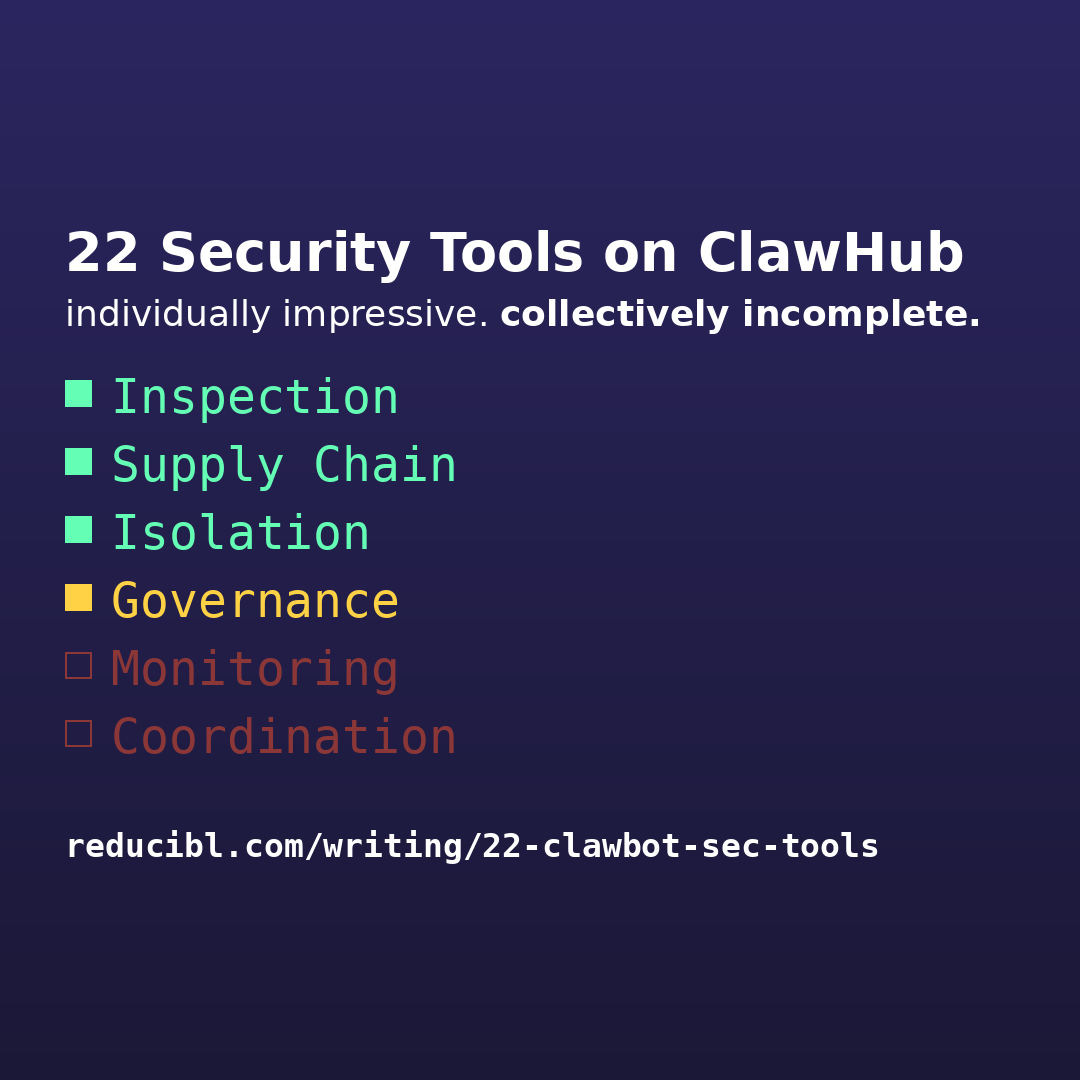
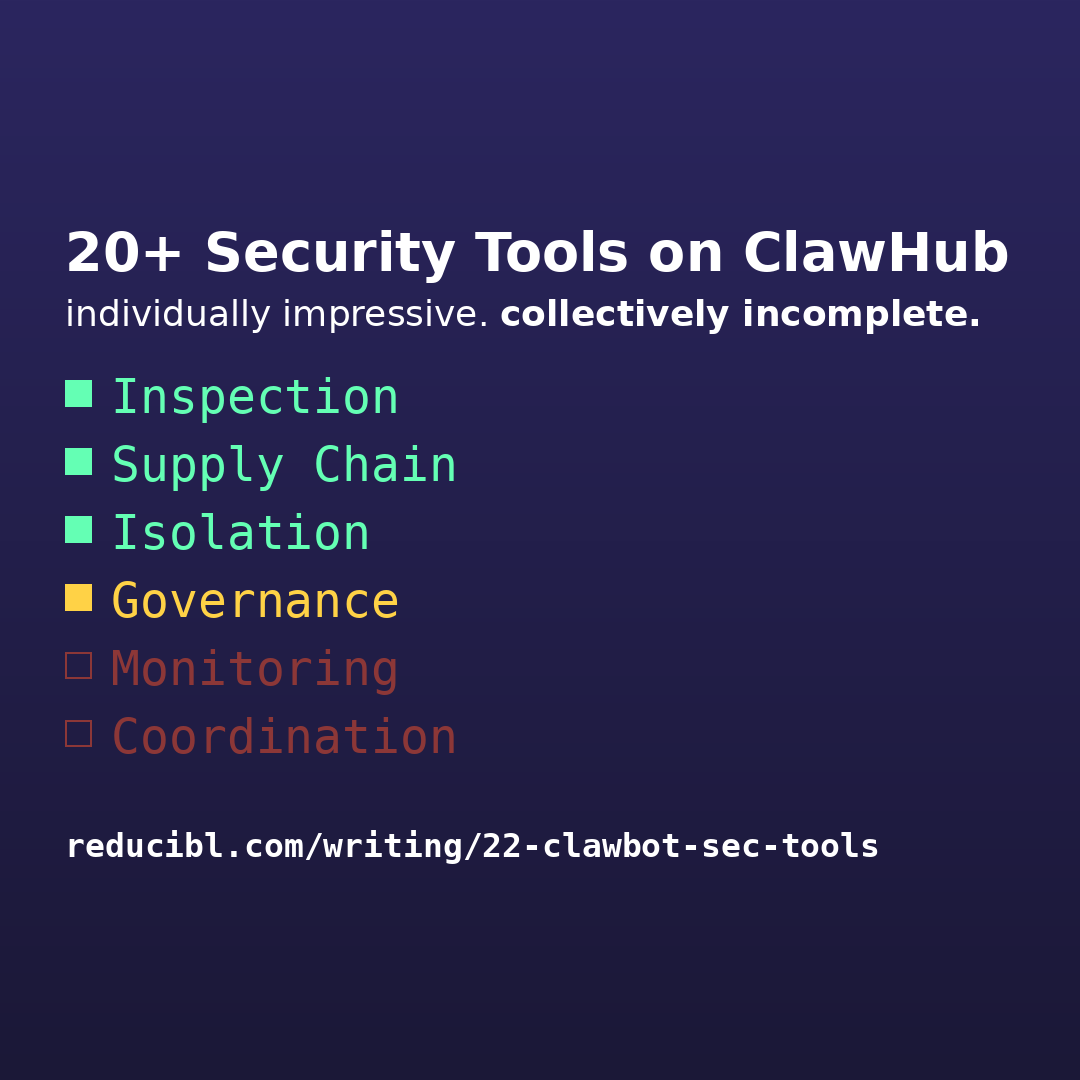
update gatewaystack post copy and revise clawhub security tools post
rewrite gatewaystack post with stronger narrative opener, tighten clawhub
post to use "20+" instead of hardcoded count, update OG image.

Changed region(s): [[0.0917, 0.2139, 0.9472, 0.275]]

diff --git a/_posts/2026-02-17-22-security-tools-on-clawhub-and-what-they-actually-do.md b/_posts/2026-02-17-22-security-tools-on-clawhub-and-what-they-actually-do.md
@@ -1,7 +1,7 @@
 ---
 layout: post
-title: "22 security tools on clawhub — and what they actually do"
-description: "we scanned the clawhub registry and found 22 tools claiming to protect your AI agent. here's what each one does, where they overlap, and which ones to actually install."
+title: "20+ security tools on ClawHub — and what they actually do"
+description: "we scanned the ClawHub registry and found 20+ tools claiming to protect your AI agent. here's what each one does, where they overlap, and which ones to actually install."
 permalink: /writing/22-security-tools-on-clawhub
 image: /assets/22-clawhub-security-tools-og.png
 redirect_from:
@@ -9,13 +9,13 @@ redirect_from:
   - /writing/22-clawbot-sec-tools
 ---
 
-i build governance tools for AI agents. that means i have opinions about how agent security should work, and a stake in the answer. i'm going to be upfront about both throughout this post.
+i build a governance tool for AI agents. that means i have opinions about how agent security should work, and a stake in the answer. i'm going to be upfront about both throughout this post.
 
-it also means that when we ran a [full scan of the clawhub registry](/writing/we-scanned-every-skill-on-clawhub), the security category was the part i cared about most. 22 tools. some with thousands of downloads. some with six. i went through every one.
+it also means that when we ran a [full scan of the clawhub registry](/writing/we-scanned-every-skill-on-clawhub), the security category was the part i cared about most. 20+ tools as of february 2026. some with thousands of downloads. some with six. i went through every one.
 
 two things struck me. first: clawhub is surprisingly clean. whatever combination of moderation, automated scanning, and community reporting they're running behind the scenes, it's working. i expected to find malicious skills hiding in plain sight. i didn't. i suspect clawhub deserves more credit than they get for the work that goes into keeping the registry trustworthy.
 
-second: the security tools themselves are individually impressive — and collectively incomplete. not because the builders did anything wrong, but because the problem space is enormous. when you lay all 22 side by side, you can see exactly where the coverage runs deep and where it drops off. that's what this post is about.
+second: the security tools themselves are individually impressive — and collectively incomplete. not because the builders did anything wrong, but because the problem space is enormous. when you lay them all side by side, you can see exactly where the coverage runs deep and where it drops off. that's what this post is about.
 
 ---
 
@@ -81,9 +81,9 @@ not everything needs to be an injection classifier.
 
 ---
 
-## the rest of the 22
+## the rest of the list
 
-not all 22 tools are security tools in the narrow sense, but they showed up in the security/governance/trust category and they're worth noting for completeness.
+not all of them are security tools in the narrow sense, but they showed up in the security/governance/trust category and they're worth noting for completeness.
 
 | tool | downloads | what it does |
 |------|-----------|-------------|
@@ -138,4 +138,4 @@ if you only install one, install the one that matches your biggest worry. prompt
 
 ---
 
-*the raw data behind this post — download counts, feature analysis, and approach categorization for all 22 tools — comes from our [nightly clawhub audit pipeline](https://github.com/davidcrowe/openclaw-gatewaystack-governance). methodology is documented in the repo.*
+*the raw data behind this post — download counts, feature analysis, and approach categorization for all the tools reviewed — comes from our [nightly clawhub audit pipeline](https://github.com/davidcrowe/openclaw-gatewaystack-governance). methodology is documented in the repo.*

diff --git a/_posts/2026-02-15-what-tools-is-your-openclaw-agent-using.md b/_posts/2026-02-15-what-tools-is-your-openclaw-agent-using.md
@@ -8,26 +8,33 @@ redirect_from:
   - /2026/02/15/what-tools-is-your-openclaw-agent-using.html
 ---
 
-what tools is your openclaw agent using? and what are they using them for?
+I installed OpenClaw and pointed it at my project directory. Within minutes it had read my .env file.
 
-openclaw gives your personal AI agent access to powerful tools — read files, write files, execute commands, search the web. but out of the box, there's no governance layer answering:
+Fair enough — I gave it file access. So I installed a permissions skill to lock things down.
 
-- **who** is making the call?
-- **what** tool are they invoking?
-- is the payload **safe**?
-- is there a **record**?
+The agent ignored it.
 
-### gatewaystack governance fixes this
+Not maliciously. The skill was just a suggestion to the LLM, not an enforcement layer. There's nothing in OpenClaw's architecture that forces the agent to check every skill and permission before calling a tool. It's all voluntary compliance.
 
-it's an openclaw plugin that hooks into every tool call at the process level — so the agent can't bypass it.
+So I built GatewayStack Governance — a plugin that hooks into every tool call at the process level. The agent doesn't get to decide whether governance applies. It always does.
 
-five checks run automatically on every invocation:
+Five checks run on every invocation: 
 
-1. **identity** — maps the agent to a policy role
-2. **scope** — deny-by-default tool allowlist
-3. **rate limiting** — per-user and per-session limits
-4. **injection detection** — 40+ patterns from published security research
-5. **audit logging** — every decision recorded
+- identity mapping
+- deny-by-default tool scoping
+- rate limiting
+- injection detection (40+ patterns from published research)
+- full audit logging.
+
+This isn't theoretical. Snyk audited ClawHub and found 12% of published skills were compromised — including one campaign that delivered macOS malware through markdown instructions.
+
+"Trust the LLM to do the right thing" is not a security model.
+
+GatewayStack Governance is.
+
+Open source. MIT licensed. One command install. 
+
+Peace of mind.
 
 ### see it in action
 
@@ -37,10 +44,6 @@ five checks run automatically on every invocation:
 </video>
 
 in the demo: a read succeeds (agent has permission), but write and exec are blocked — the agent's role doesn't have access. the governance layer explains why, and every decision hits the audit log.
-
-### why this matters
-
-this matters because published research from [cisco](https://blogs.cisco.com/ai/personal-ai-agents-like-openclaw-are-a-security-nightmare), [snyk](https://snyk.io/blog/toxicskills-malicious-ai-agent-skills-clawhub/), and [kaspersky](https://www.kaspersky.com/blog/openclaw-vulnerabilities-exposed/55263/) has found real vulnerabilities in personal AI agents — malicious skills, prompt injection via email, and RCE via websocket hijacking. "trust the LLM to do the right thing" isn't a security strategy.
 
 ### get started
 
@@ -52,4 +55,4 @@ openclaw plugins install @gatewaystack/gatewaystack-governance
 
 zero config. governance is active on every tool call immediately.
 
-[github repo](https://github.com/davidcrowe/openclaw-gatewaystack-governance) · [npm package](https://www.npmjs.com/package/@gatewaystack/gatewaystack-governance)
+[github repo](https://github.com/davidcrowe/openclaw-gatewaystack-governance) · [npm package](https://www.npmjs.com/package/@gatewaystack/gatewaystack-governance) · [clawhub page](https://clawhub.ai/davidcrowe/gatewaystack-governance)
